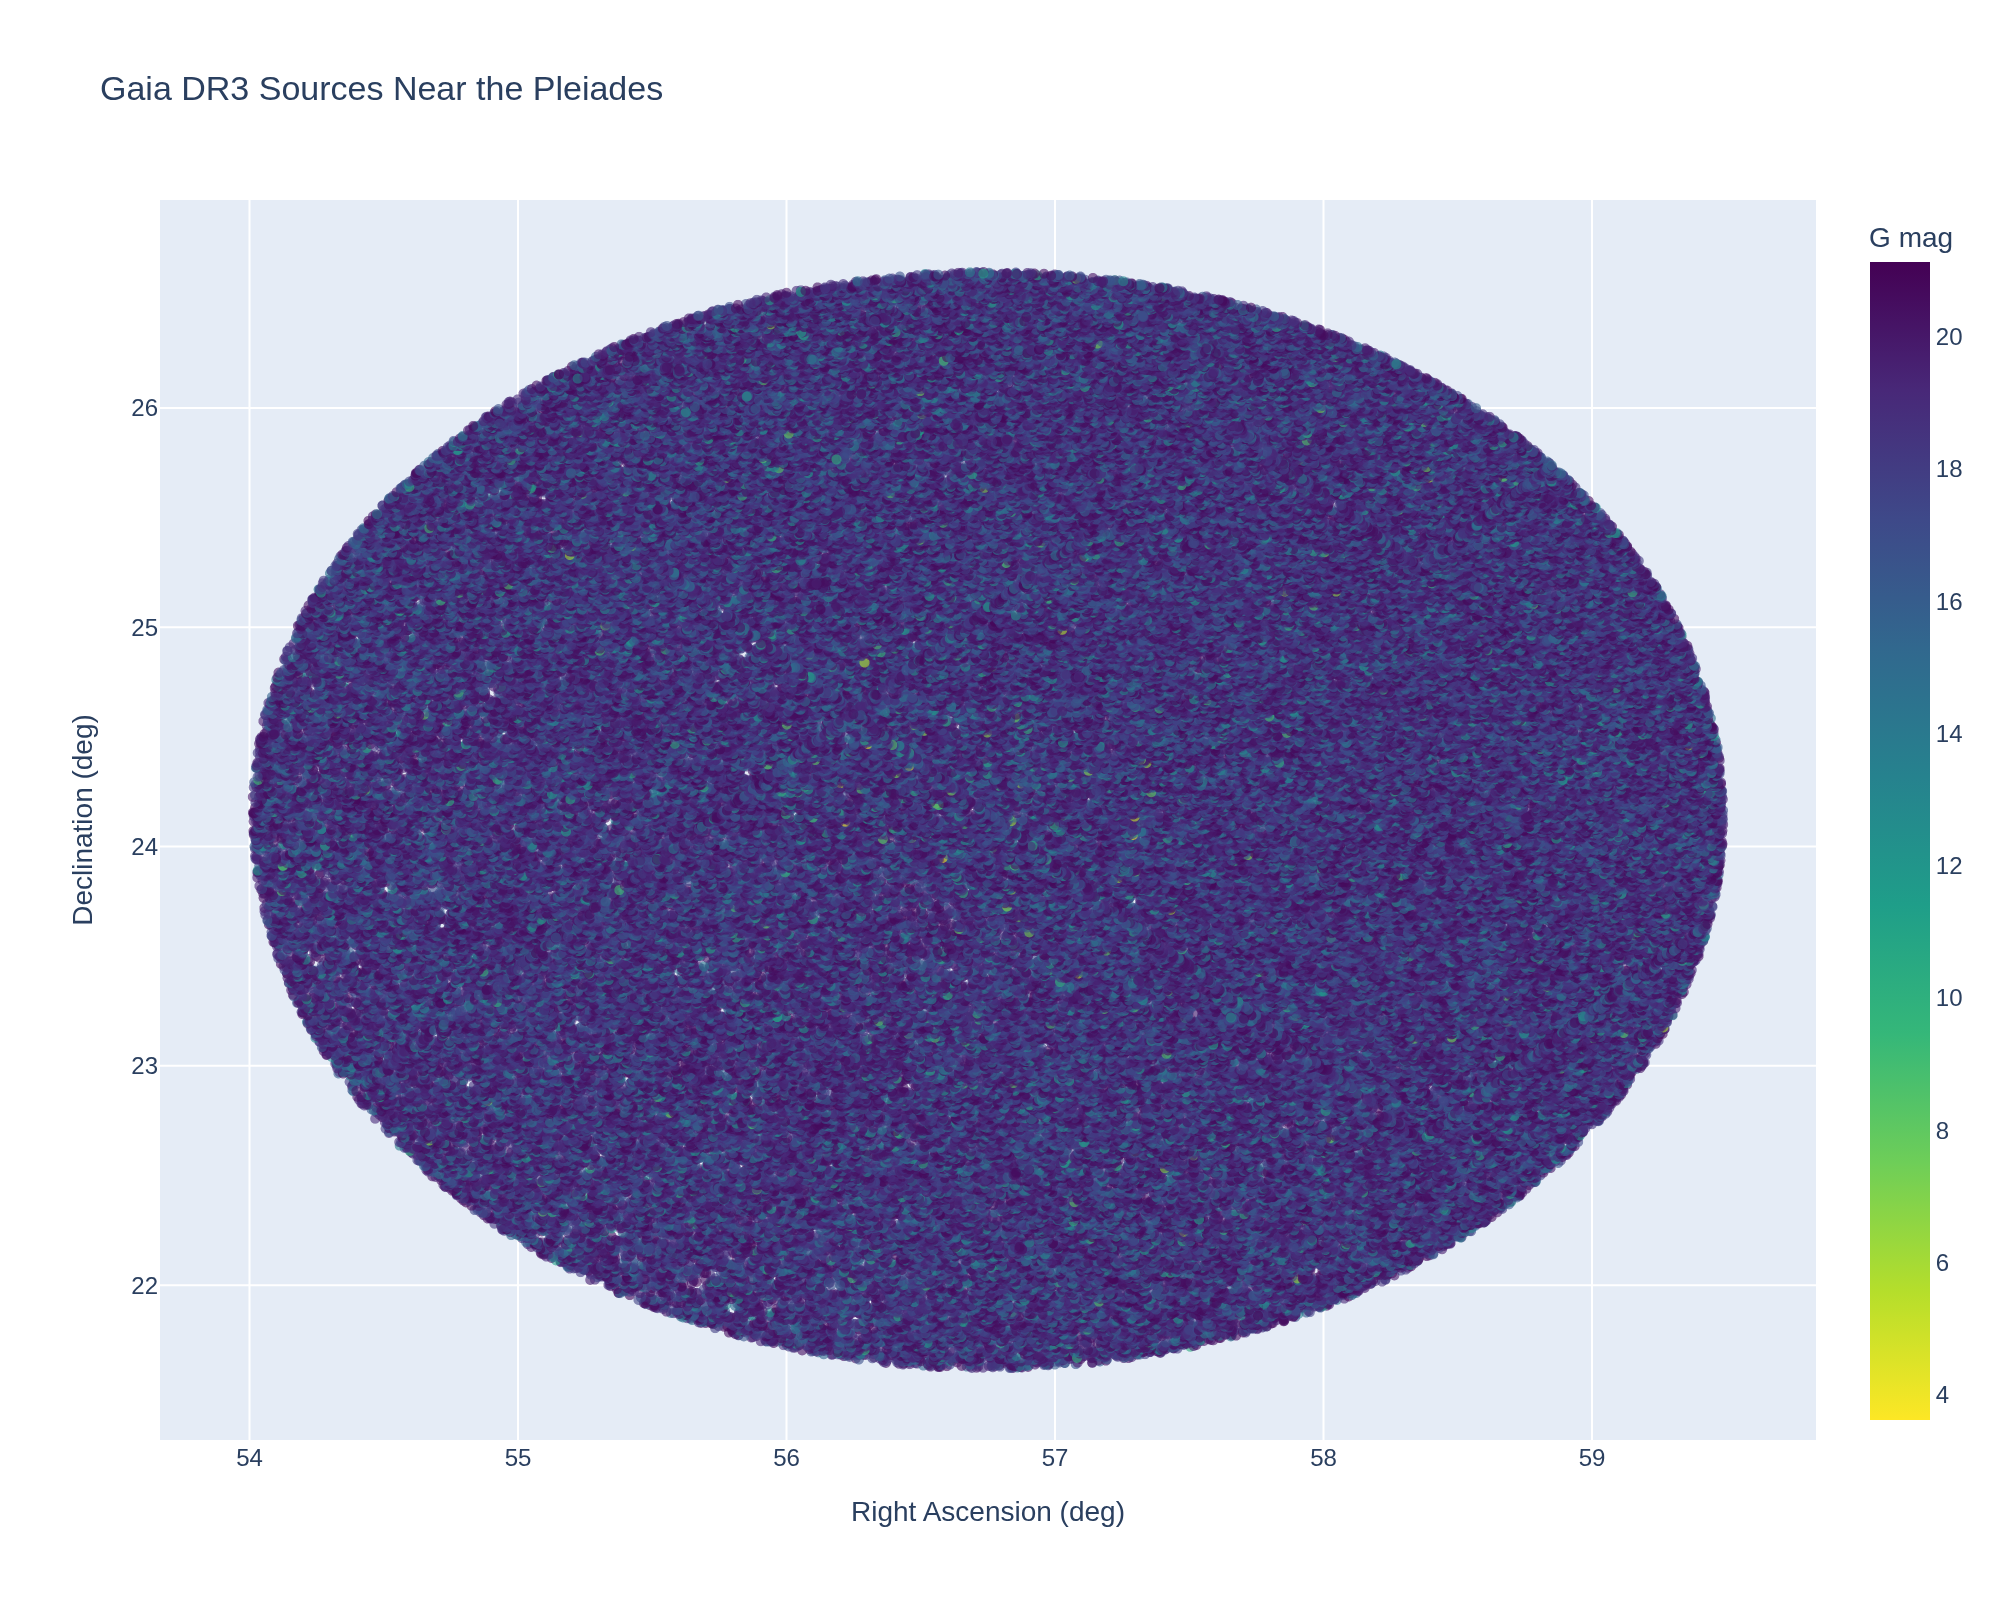
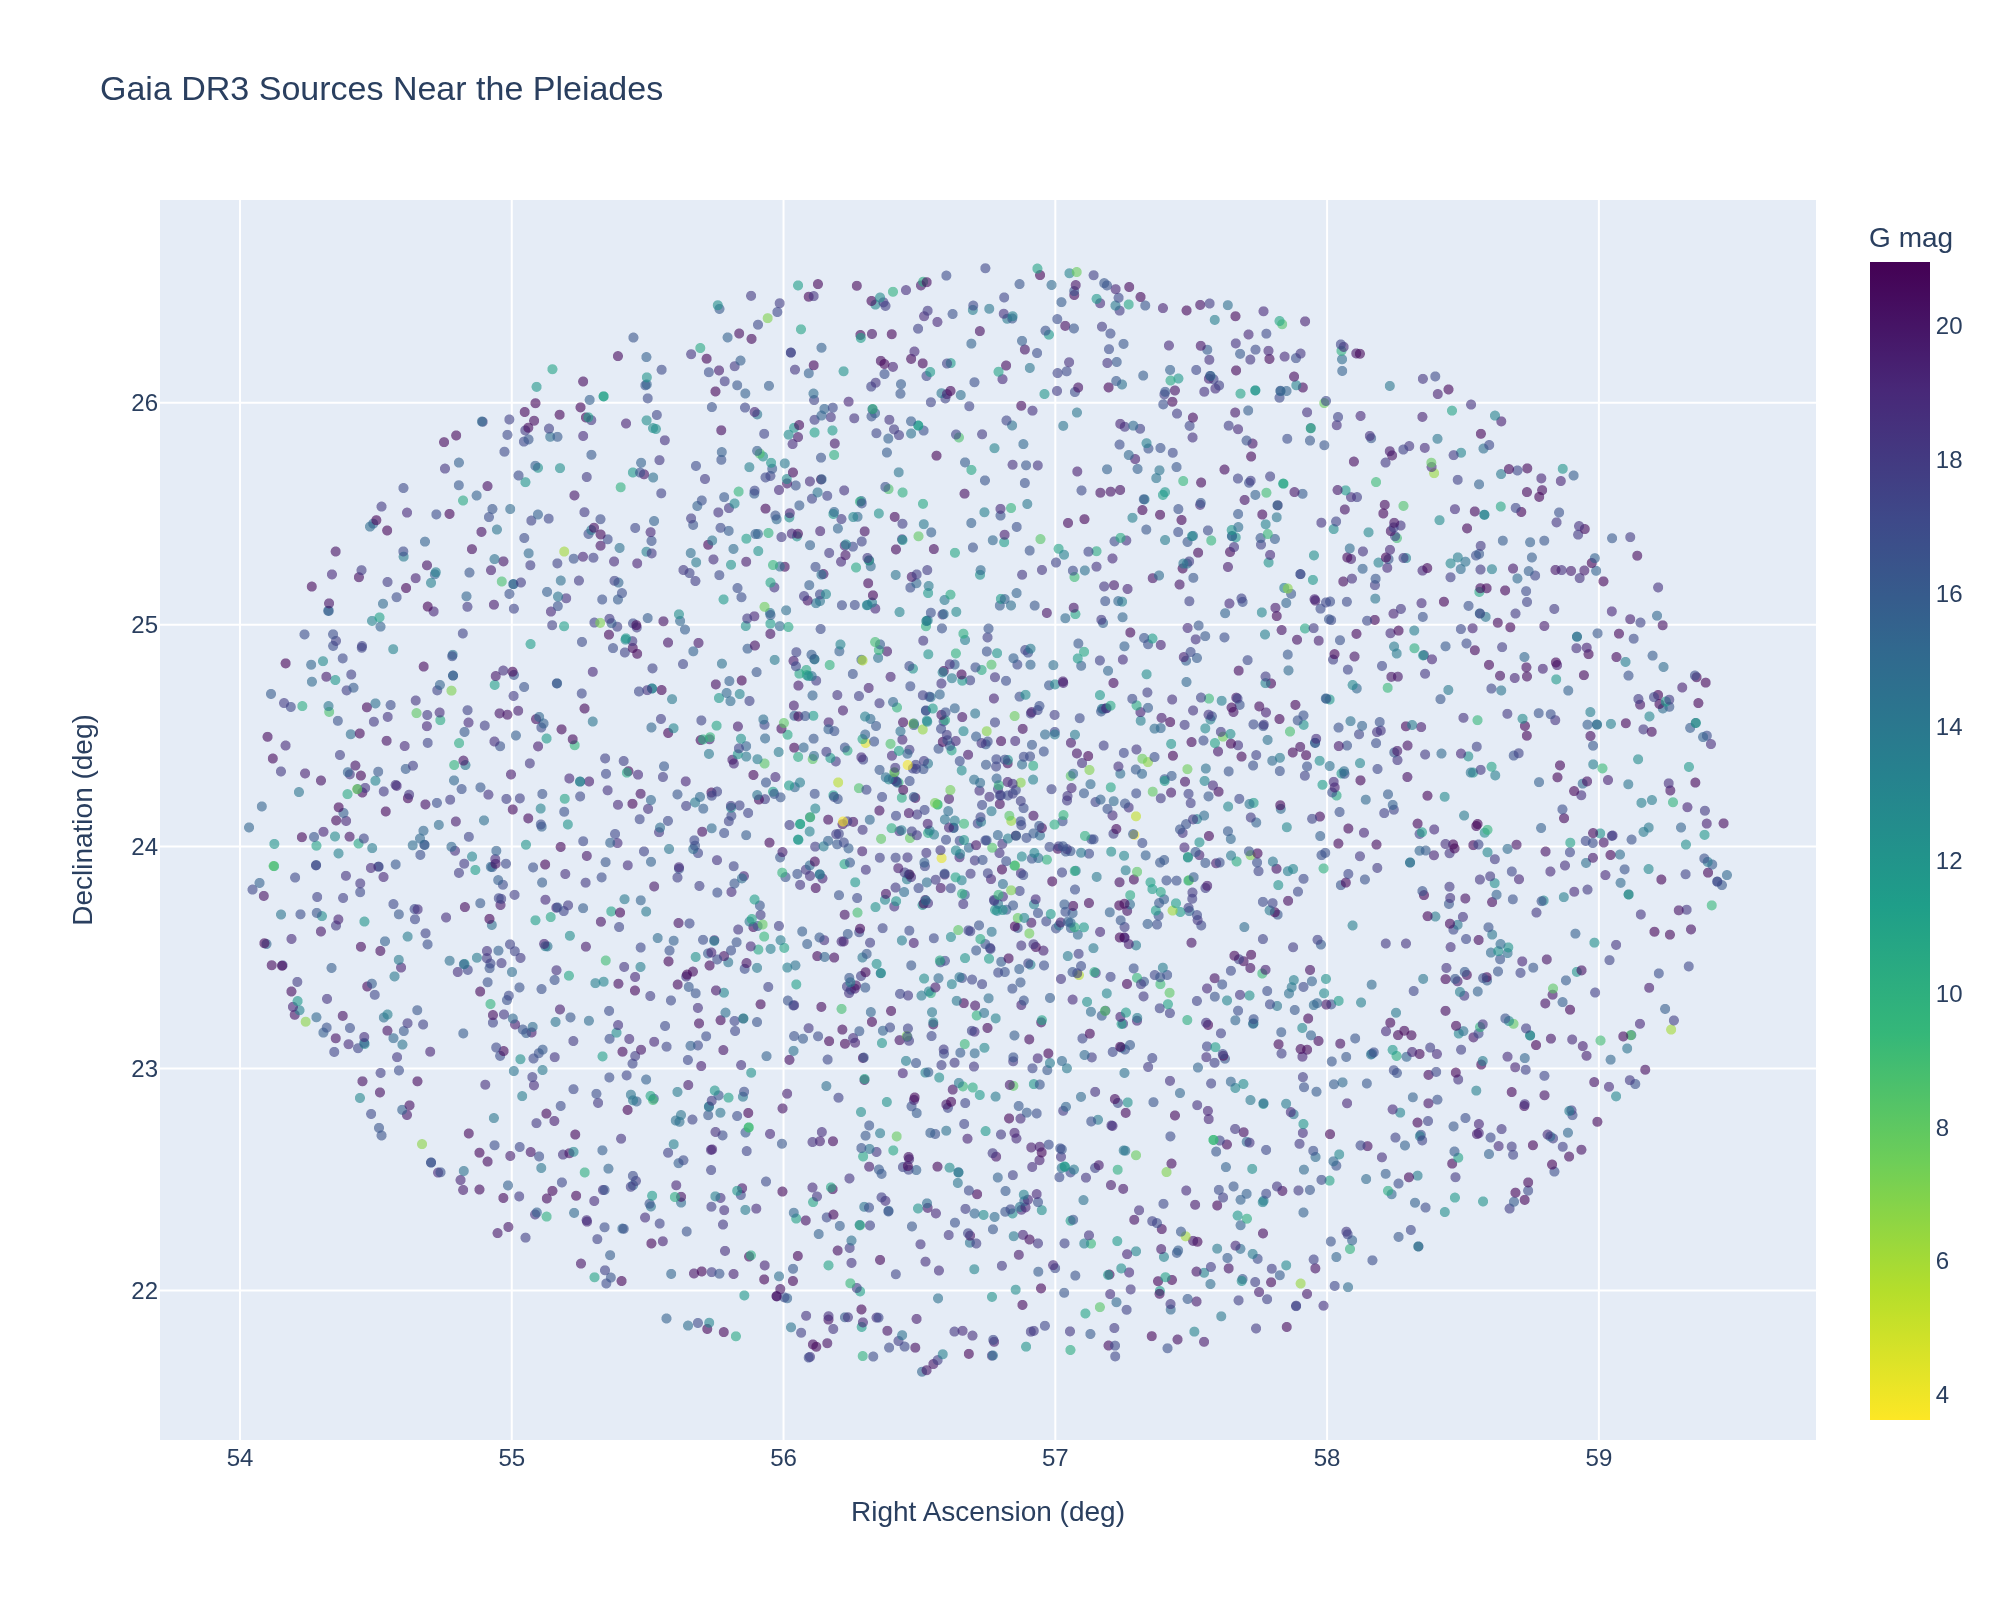
some forgotten changes

diff --git a/scripts/pleiades.py b/scripts/pleiades.py
@@ -1,20 +1,28 @@
 #!/usr/bin/env python3
-"""Query Gaia DR3 around the Pleiades and create an RA-Dec scatter plot."""
+"""Query Gaia DR3 around the Pleiades, cluster likely members, and create plots."""
 
 from __future__ import annotations
 
 import logging
+from itertools import cycle
 from pathlib import Path
+from typing import Iterable
 
+import numpy as np
 import pandas as pd
 import plotly.express as px
 from astroquery.gaia import Gaia
+from sklearn.cluster import DBSCAN
+from sklearn.preprocessing import StandardScaler
 
 # Coordinates of the Pleiades cluster (J2000)
 PLEIADES_RA_DEG = 56.75
 PLEIADES_DEC_DEG = 24.12
 # Cone-search radius (degrees)
 SEARCH_RADIUS_DEG = 2.5
+# Parallax window (milliarcseconds) to limit the download volume
+PARALLAX_MIN_MAS = 4.0
+PARALLAX_MAX_MAS = 10.0
 
 # Columns we need from Gaia
 GAIA_COLUMNS = [
@@ -28,8 +36,24 @@ GAIA_COLUMNS = [
     "bp_rp",
 ]
 
+# Output locations
 RESULTS_DIR = Path("results")
 SCATTER_PLOT_PATH = RESULTS_DIR / "pleiades_scatter.png"
+CMD_PLOT_PATH = RESULTS_DIR / "pleiades_cmd.png"
+PARALLAX_HIST_PATH = RESULTS_DIR / "pleiades_histogram.png"
+CLUSTER_SKY_PATH = RESULTS_DIR / "pleiades_cluster_sky.png"
+PROPER_MOTION_PLOT_PATH = RESULTS_DIR / "pleiades_proper_motion.png"
+
+# DBSCAN parameters (tunings can be adjusted later if needed)
+DBSCAN_EPS = 0.12
+DBSCAN_MIN_SAMPLES = 20
+
+# Colour palette for cluster visualisations
+CLUSTER_COLOR_SEQUENCE = (
+    px.colors.qualitative.Safe
+    + px.colors.qualitative.Bold
+    + px.colors.qualitative.Dark24
+)
 
 logging.basicConfig(level=logging.INFO, format="%(levelname)s: %(message)s")
 
@@ -44,16 +68,19 @@ def build_gaia_query() -> str:
             POINT('ICRS', ra, dec),
             CIRCLE('ICRS', {PLEIADES_RA_DEG}, {PLEIADES_DEC_DEG}, {SEARCH_RADIUS_DEG})
         )
+        AND parallax BETWEEN {PARALLAX_MIN_MAS} AND {PARALLAX_MAX_MAS}
     """.strip()
 
 
 def query_gaia() -> pd.DataFrame:
     """Run the Gaia query and return the results as a DataFrame."""
     logging.info(
-        "Querying Gaia DR3 around RA=%s°, Dec=%s° with radius %.1f°",
+        "Querying Gaia DR3 around RA=%s°, Dec=%s° with radius %.1f° and parallax in [%.1f, %.1f] mas",
         PLEIADES_RA_DEG,
         PLEIADES_DEC_DEG,
         SEARCH_RADIUS_DEG,
+        PARALLAX_MIN_MAS,
+        PARALLAX_MAX_MAS,
     )
     Gaia.MAIN_GAIA_TABLE = "gaiadr3.gaia_source"
     query = build_gaia_query()
@@ -80,6 +107,77 @@ def clean_data(df: pd.DataFrame) -> pd.DataFrame:
     return cleaned
 
 
+def standardize_features(df: pd.DataFrame, columns: Iterable[str]) -> tuple[pd.Index, np.ndarray]:
+    """Standardize selected columns and return mask plus scaled feature matrix."""
+    mask = df[list(columns)].notnull().all(axis=1)
+    if not mask.any():
+        return df.index[mask], np.empty((0, len(columns)))
+    scaler = StandardScaler()
+    scaled = scaler.fit_transform(df.loc[mask, columns])
+    return df.index[mask], scaled
+
+
+def run_dbscan_clustering(df: pd.DataFrame) -> pd.DataFrame:
+    """Cluster sources using DBSCAN on kinematic features."""
+    kinematics_cols = ["pmra", "pmdec", "parallax"]
+    valid_index, features = standardize_features(df, kinematics_cols)
+    df = df.copy()
+    df["cluster_label"] = -1
+    df["is_cluster_member"] = False
+    if features.size == 0:
+        logging.warning("No rows contained all kinematic features; skipping clustering.")
+        return df
+
+    logging.info(
+        "Running DBSCAN with eps=%s, min_samples=%s on %d stars",
+        DBSCAN_EPS,
+        DBSCAN_MIN_SAMPLES,
+        features.shape[0],
+    )
+    clustering = DBSCAN(eps=DBSCAN_EPS, min_samples=DBSCAN_MIN_SAMPLES)
+    labels = clustering.fit_predict(features)
+
+    df.loc[valid_index, "cluster_label"] = labels
+    df.loc[valid_index, "is_cluster_member"] = labels >= 0
+
+    unique_labels, counts = np.unique(labels, return_counts=True)
+    cluster_counts = {
+        int(label): int(count)
+        for label, count in zip(unique_labels, counts, strict=True)
+    }
+    member_total = sum(count for label, count in cluster_counts.items() if label != -1)
+    noise_total = cluster_counts.get(-1, 0)
+    n_clusters = len([label for label in unique_labels if label != -1])
+    logging.info(
+        "DBSCAN identified %d cluster(s) with %d candidate members; %d stars tagged as noise",
+        n_clusters,
+        member_total,
+        noise_total,
+    )
+    return df
+
+
+def cluster_category_series(df: pd.DataFrame) -> pd.Series:
+    """Return a categorical series labelling clusters vs noise for plotting."""
+    labels = df.get("cluster_label")
+    if labels is None:
+        return pd.Series(["Noise"] * len(df), index=df.index)
+    labels = labels.fillna(-1).astype(int)
+    categories = labels.astype(str)
+    categories = categories.where(labels >= 0, other="Noise")
+    return categories
+
+
+def build_cluster_color_map(categories: Iterable[str]) -> dict[str, str]:
+    """Create a discrete colour map for cluster categories."""
+    color_map = {"Noise": "#7f7f7f"}
+    unique_clusters = sorted({int(label) for label in categories if label != "Noise"})
+    palette_cycle = cycle(CLUSTER_COLOR_SEQUENCE)
+    for cluster_id in unique_clusters:
+        color_map[str(cluster_id)] = next(palette_cycle)
+    return color_map
+
+
 def create_scatter_plot(df: pd.DataFrame) -> None:
     """Create and save an RA-Dec scatter plot colored by G magnitude."""
     logging.info("Rendering RA-Dec scatter plot to %s", SCATTER_PLOT_PATH)
@@ -96,6 +194,7 @@ def create_scatter_plot(df: pd.DataFrame) -> None:
             "pmdec": ":.3f",
             "phot_g_mean_mag": ":.2f",
             "bp_rp": ":.2f",
+            "cluster_label": True if "cluster_label" in df.columns else False,
         },
         labels={
             "ra": "Right Ascension (deg)",
@@ -111,14 +210,147 @@ def create_scatter_plot(df: pd.DataFrame) -> None:
     logging.info("Saved scatter plot with %d points", len(df))
 
 
+def create_cluster_sky_plot(df: pd.DataFrame) -> None:
+    """Plot the sky distribution coloured by DBSCAN cluster label."""
+    sky_df = df.copy()
+    sky_df["cluster_category"] = cluster_category_series(sky_df)
+    color_map = build_cluster_color_map(sky_df["cluster_category"]) if not sky_df.empty else {}
+    logging.info("Rendering cluster-labelled sky plot to %s", CLUSTER_SKY_PATH)
+    fig = px.scatter(
+        sky_df,
+        x="ra",
+        y="dec",
+        color="cluster_category",
+        color_discrete_map=color_map,
+        hover_data={
+            "source_id": True,
+            "cluster_label": True,
+            "is_cluster_member": True,
+            "parallax": ":.3f",
+            "pmra": ":.3f",
+            "pmdec": ":.3f",
+        },
+        labels={
+            "ra": "Right Ascension (deg)",
+            "dec": "Declination (deg)",
+            "cluster_category": "Cluster label",
+        },
+        title="DBSCAN Clusters on the Sky",
+    )
+    fig.update_traces(marker=dict(size=5, opacity=0.7))
+    fig.write_image(str(CLUSTER_SKY_PATH), width=1000, height=800, scale=2)
+    logging.info("Saved cluster sky plot with %d points", len(sky_df))
+
+
+def create_proper_motion_plot(df: pd.DataFrame) -> None:
+    """Plot proper motions coloured by DBSCAN cluster label."""
+    motion_df = df.dropna(subset=["pmra", "pmdec"]).copy()
+    if motion_df.empty:
+        logging.warning("No proper motion data available for cluster plot.")
+        return
+    motion_df["cluster_category"] = cluster_category_series(motion_df)
+    color_map = build_cluster_color_map(motion_df["cluster_category"])
+    logging.info("Rendering proper motion plot to %s", PROPER_MOTION_PLOT_PATH)
+    fig = px.scatter(
+        motion_df,
+        x="pmra",
+        y="pmdec",
+        color="cluster_category",
+        color_discrete_map=color_map,
+        hover_data={
+            "source_id": True,
+            "cluster_label": True,
+            "is_cluster_member": True,
+            "parallax": ":.3f",
+            "phot_g_mean_mag": ":.2f",
+            "bp_rp": ":.2f",
+        },
+        labels={
+            "pmra": "Proper motion in RA (mas/yr)",
+            "pmdec": "Proper motion in Dec (mas/yr)",
+            "cluster_category": "Cluster label",
+        },
+        title="DBSCAN Clusters in Proper Motion Space",
+    )
+    fig.update_traces(marker=dict(size=6, opacity=0.8))
+    fig.write_image(str(PROPER_MOTION_PLOT_PATH), width=900, height=900, scale=2)
+    logging.info("Saved proper motion plot with %d points", len(motion_df))
+
+
+def create_cmd_plot(df: pd.DataFrame) -> None:
+    """Generate a color-magnitude diagram highlighting cluster members."""
+    cmd_df = df.dropna(subset=["bp_rp", "phot_g_mean_mag"]).copy()
+    if cmd_df.empty:
+        logging.warning("No data available for CMD plot.")
+        return
+    logging.info("Rendering CMD plot to %s", CMD_PLOT_PATH)
+    fig = px.scatter(
+        cmd_df,
+        x="bp_rp",
+        y="phot_g_mean_mag",
+        color="is_cluster_member",
+        color_discrete_map={True: "#d62728", False: "#7f7f7f"},
+        hover_data={
+            "source_id": True,
+            "parallax": ":.3f",
+            "pmra": ":.3f",
+            "pmdec": ":.3f",
+            "phot_g_mean_mag": ":.2f",
+            "bp_rp": ":.2f",
+            "cluster_label": True,
+        },
+        labels={
+            "bp_rp": "BP - RP (mag)",
+            "phot_g_mean_mag": "G Magnitude",
+            "is_cluster_member": "Cluster member",
+        },
+        title="Pleiades Color-Magnitude Diagram",
+    )
+    fig.update_yaxes(autorange="reversed")
+    fig.update_traces(marker=dict(size=6, opacity=0.8))
+    fig.write_image(str(CMD_PLOT_PATH), width=1000, height=800, scale=2)
+    logging.info("Saved CMD plot with %d points", len(cmd_df))
+
+
+def create_parallax_histogram(df: pd.DataFrame) -> None:
+    """Plot a parallax distribution comparing members and field stars."""
+    hist_df = df.dropna(subset=["parallax"]).copy()
+    if hist_df.empty:
+        logging.warning("No parallax data available for histogram.")
+        return
+    logging.info("Rendering parallax histogram to %s", PARALLAX_HIST_PATH)
+    fig = px.histogram(
+        hist_df,
+        x="parallax",
+        color="is_cluster_member",
+        nbins=60,
+        barmode="overlay",
+        opacity=0.75,
+        color_discrete_map={True: "#d62728", False: "#7f7f7f"},
+        labels={
+            "parallax": "Parallax (mas)",
+            "is_cluster_member": "Cluster member",
+        },
+        title="Parallax Distribution Near the Pleiades",
+    )
+    fig.update_layout(legend=dict(title=""))
+    fig.write_image(str(PARALLAX_HIST_PATH), width=1000, height=800, scale=2)
+    logging.info("Saved parallax histogram with %d total stars", len(hist_df))
+
+
 def main() -> None:
     RESULTS_DIR.mkdir(parents=True, exist_ok=True)
     df = query_gaia()
     cleaned = clean_data(df)
     if cleaned.empty:
-        logging.warning("No data remaining after cleaning; skipping plot.")
+        logging.warning("No data remaining after cleaning; skipping plots.")
         return
-    create_scatter_plot(cleaned)
+    clustered = run_dbscan_clustering(cleaned)
+    create_scatter_plot(clustered)
+    create_cluster_sky_plot(clustered)
+    create_proper_motion_plot(clustered)
+    create_cmd_plot(clustered)
+    create_parallax_histogram(clustered)
 
 
 if __name__ == "__main__":
